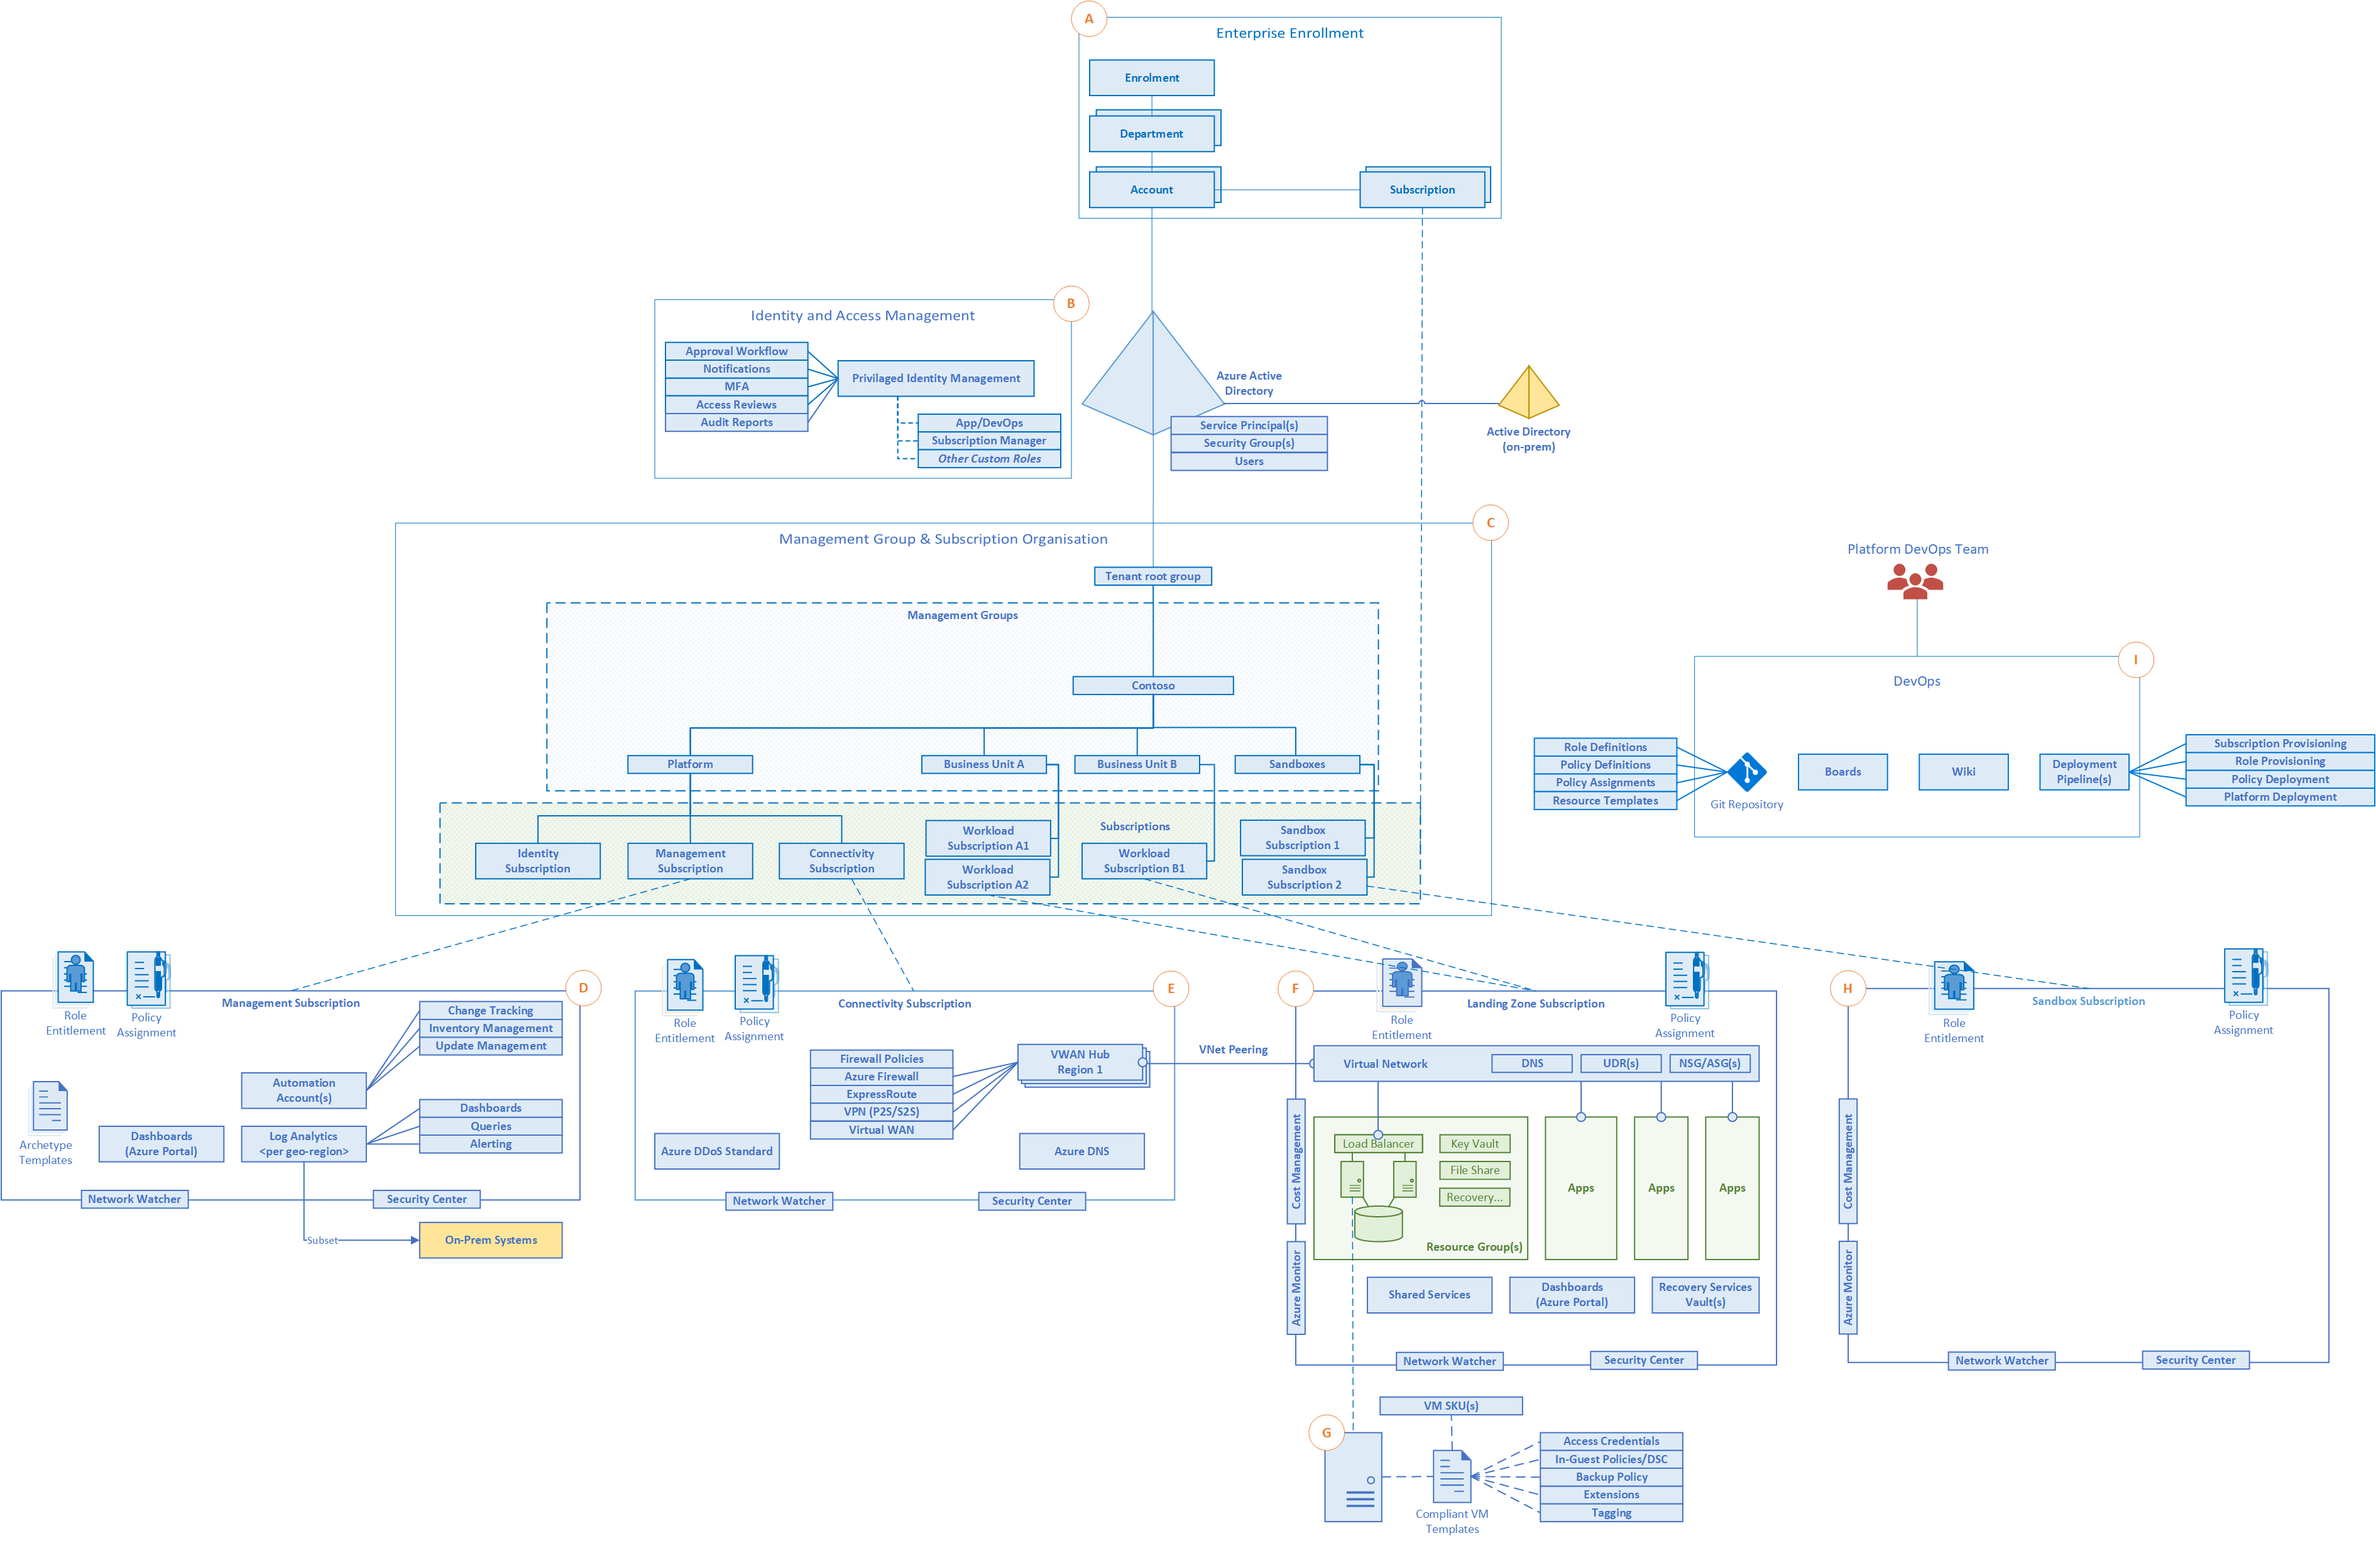
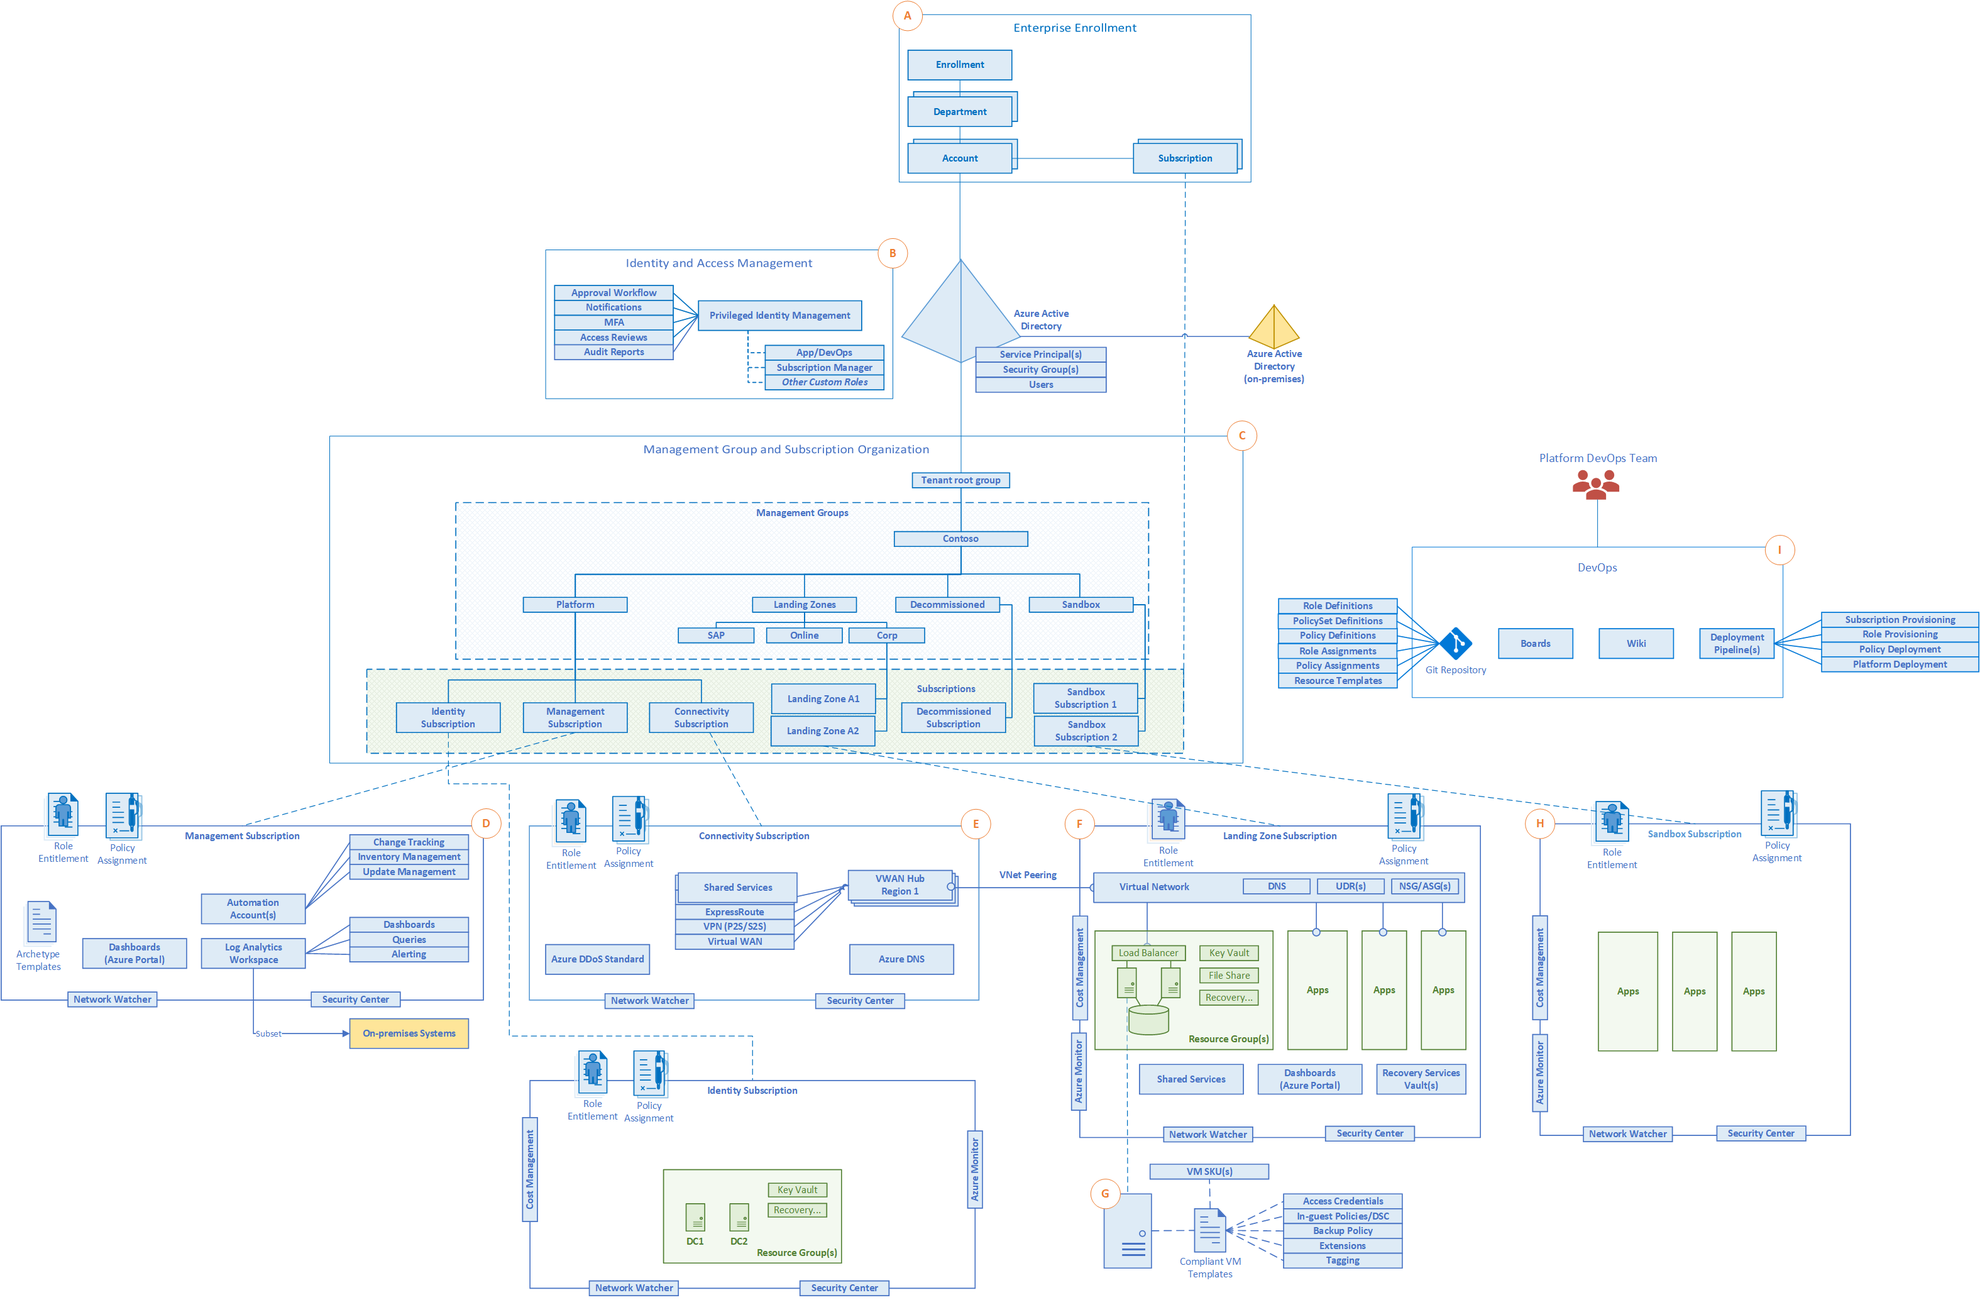
architecture diagram (#666)
* arch. diagram

* UK to US edits

* adjust image

* adjust diagram

diff --git a/docs/ready/enterprise-scale/architecture.md b/docs/ready/enterprise-scale/architecture.md
@@ -66,6 +66,8 @@ In addition to the key aspects denoted above, the design, configuration, deploym
 ![CAF enterprise-scale landing zone architecture](./media/ns-arch.png)
 _Figure 2: CAF enterprise-scale landing zone architecture._
 
+[This file] (enterprise-scale-architecture.vsdx path tbd) displays the CAF enterprise-scale landing zone architecture diagram in Visio.
+
 ## Next steps
 
 Customize implementation of this architecture using the CAF [design guidelines](./design-guidelines.md).
